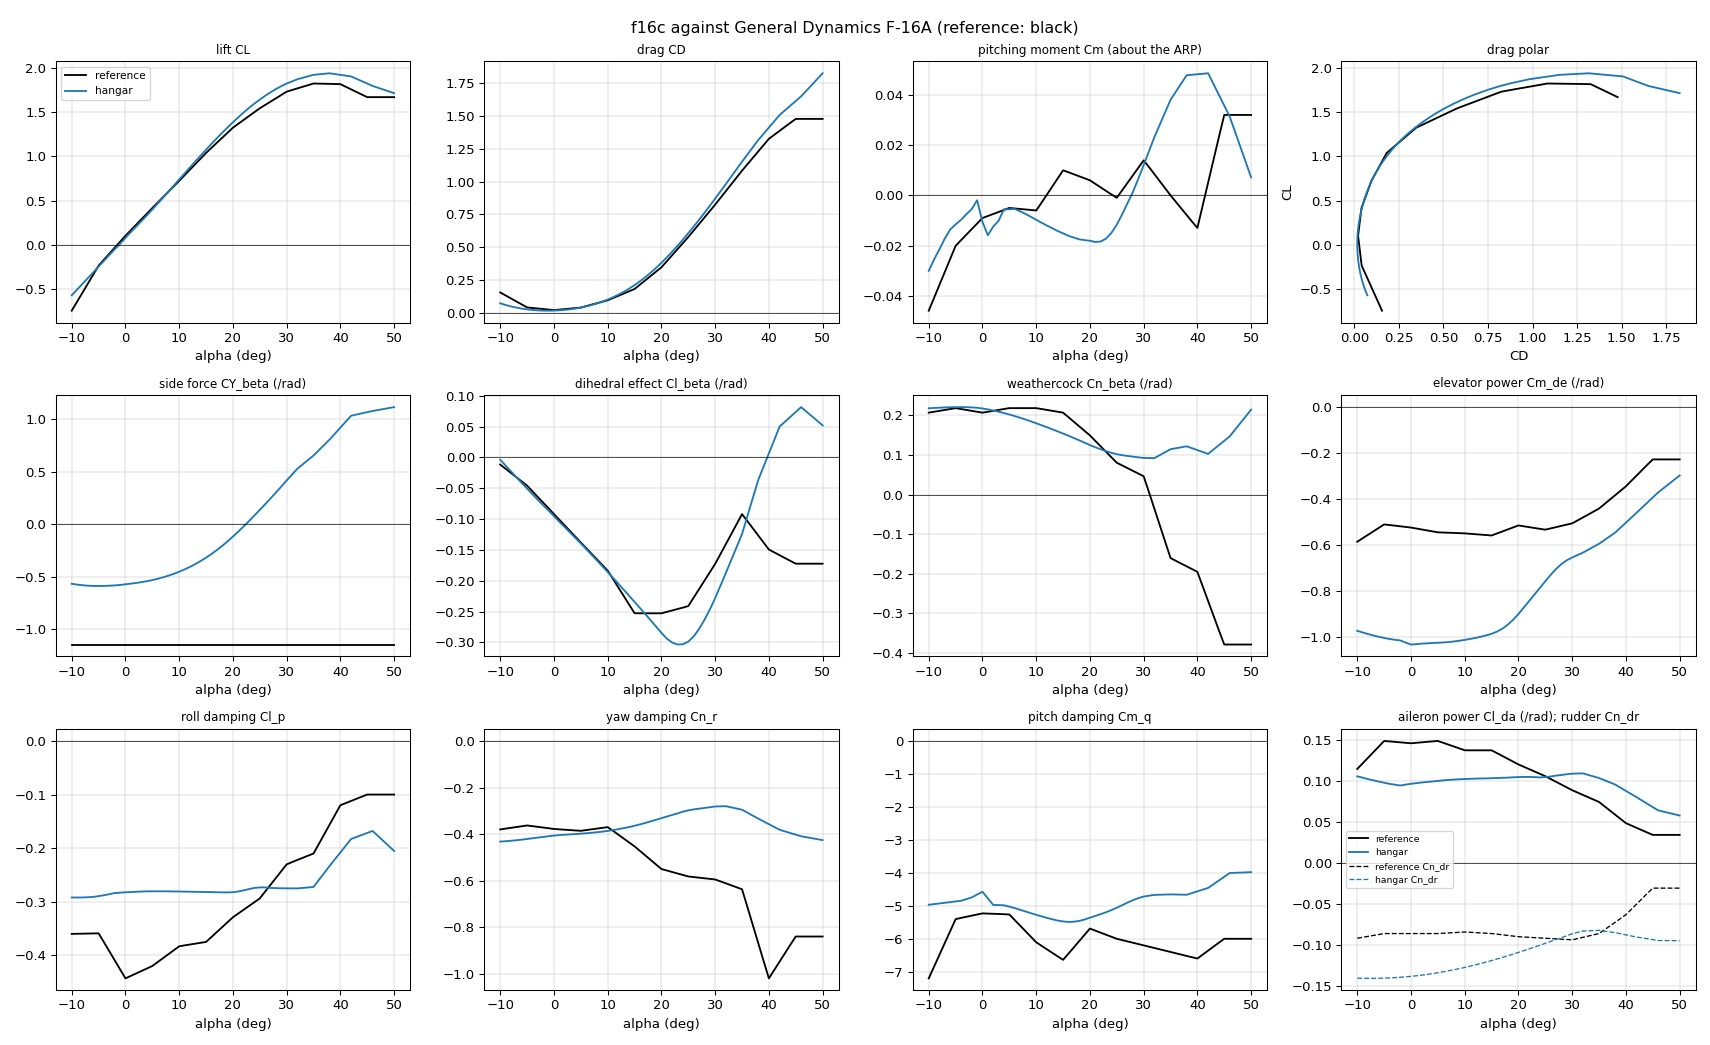
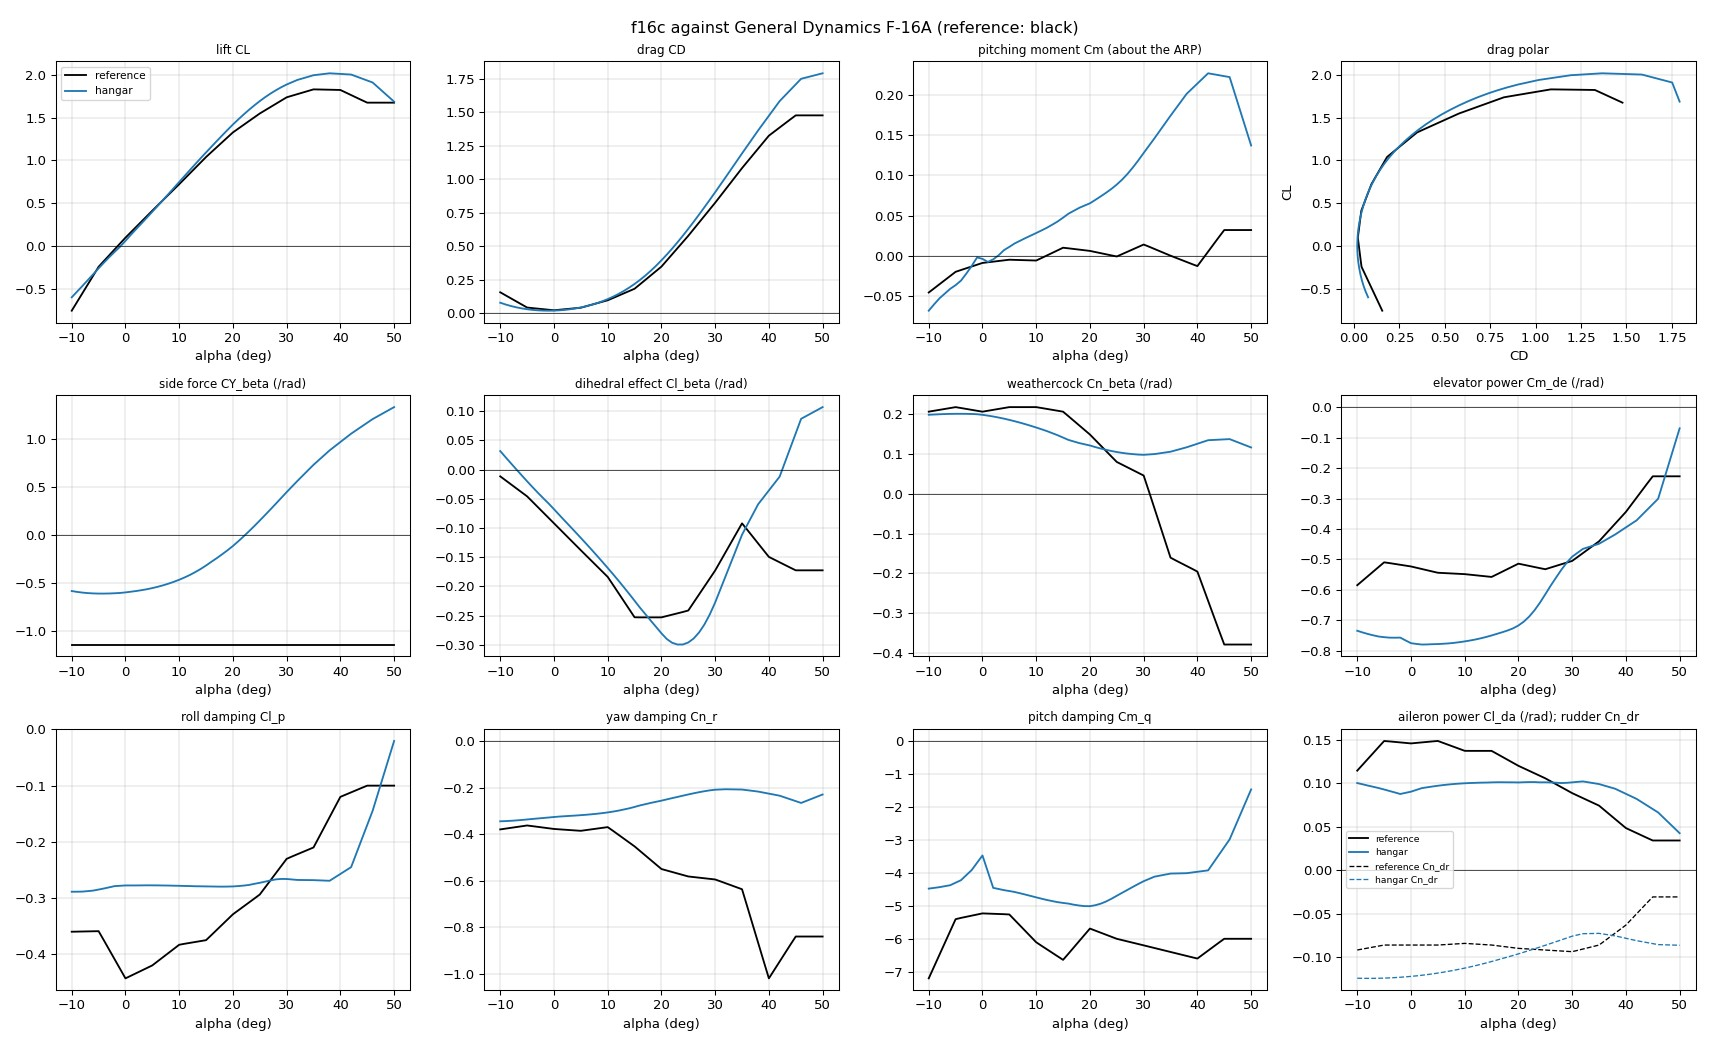
docs: the F-16C against NASA TP-1538 as the model gives it now
The Validation section's numbers predated the F-16C's reshape to its
three-views (c914b1a). Rerun at d9832dd (fsim hangar f16c, every stage):

- Lift 7.2 % and drag 7.5 % mean error to 15 deg (8.6 % and 10.9 % from
  15 to 40 deg). Cm is 0.037 above NASA's at 15 deg and 0.23 at 40 deg.
  Neutral point 30.7 % MAC; NASA's is 33.5 % from the same -2..6 deg
  slope. The old "NASA: 34.5 %" was a 0-10 deg fit, which gives the
  design 29.7 %.
- The tail's power is 1.4 times NASA's below 20 deg (the doc said 1.8).
- The flight results are unchanged: Mach 2.04, 874 kt, 62,600 ft/min,
  61,800 ft, 12.5 deg/s, 25.0 deg, 264 deg/s.

reference.compare() needs no moment transfer. The F-16C's aero_point
has been 8.030 m since the design was created (only designs without a
reference put theirs at the CG). That is 0.352 MAC, 7 mm behind NASA
TP-1538's 0.35 MAC moment reference, where JSBSim's f16 tables take
their Cm (Stevens & Lewis's, XCGR 0.35). The pitch-up to +0.22 near
42 deg is the design's own. Today's methods run on the shape before the
reshape (94668f6) give Cm within 0.019 to 15 deg and 0.074 to 40 deg,
lift 5.4 %, and the neutral point at 34.35 %. Putting back parts of that
shape one at a time moves the neutral point aft: the strakes by 1.1 %
MAC, the fuselage and intake by 0.85 %, the stabilator position by
0.6 %. docs/hangar.md now calls this a regression.

The aircraft-design skill now says that a design with a reference keeps
[…]

diff --git a/docs/hangar.md b/docs/hangar.md
@@ -406,16 +406,34 @@ TP-1538's wind-tunnel data (Nguyen et al., 1979), a reference measured from
 
 ![hangar's F-16C against NASA TP-1538](images/hangar-f16c-nasa.jpg)
 
-Lift, drag and pitching moment agree to 40° angle of attack. The mean lift
-error is 5 % and drag 7 %; Cm is within 0.025 to 15° and 0.06 to 40°. The
-neutral point is at 34.4 % of the MAC (NASA: 34.5 %). The dihedral effect,
-the weathercock stability to 25°, and the damping in pitch and yaw at low α
-also agree.
+Lift and drag follow NASA's to 40° angle of attack. The mean error to 15°
+is 7.2 % in lift and 7.5 % in drag, and from 15° to 40° it is 8.6 % and
+10.9 %. The dihedral effect, the weathercock stability to 25°, and the
+damping in pitch and yaw at low α also agree.
 
-hangar's F-16C differs in these:
+The pitching moment agrees only at low α. Both moments are taken about
+NASA's moment reference, 35 % of the MAC, which is also the design's
+reference point. NASA's Cm stays within 0.015 of zero from 0° to 40°.
+hangar's rises with α: it is 0.037 above NASA's at 15° and 0.23 above at
+40°. The neutral point is at 30.7 % of the MAC, and NASA's at 33.5 % (both
+from the slope between −2° and 6°).
+
+This is a regression. It came when the F-16C was reshaped to its
+three-views. Today's methods, run on the earlier shape, give Cm within 0.02
+of NASA's to 15° and 0.07 to 40°, a mean lift error of 5.4 %, and the
+neutral point at 34.4 %. The three-views gave the F-16C ogee strakes that
+start 1.2 m further forward, a wider forebody, and a stabilator 0.6 m
+further forward. Each of these adds nose-up moment. Put back one at a time,
+the earlier strakes move the neutral point 1.1 % of the MAC aft, the
+earlier fuselage and intake 0.85 %, and the earlier stabilator 0.6 %. The
+new shape is the more faithful one, so the error is in the model, not in
+the comparison. The strakes' vortex lift was calibrated on NASA's data
+while the F-16C still had its earlier, shorter strakes.
+
+hangar's F-16C also differs in these:
 
 - At high angle of attack it keeps more directional stability than NASA's.
-- Its all-moving tail is about 1.8 times as powerful.
+- Its all-moving tail is about 1.4 times as powerful below 20°.
 - Its side force in sideslip is about half of NASA's.
 
 JSBSim's `f16` applies Stevens & Lewis's aileron and rudder tables per

diff --git a/.claude/skills/aircraft-design/SKILL.md b/.claude/skills/aircraft-design/SKILL.md
@@ -173,6 +173,9 @@ move on while a check fails or a picture looks wrong.
   only when the JSBSim model comes from wind-tunnel data: of those shipped,
   only `f16` does (the f15's and f22's headers say performance data). Check
   its control tables' units first: see the f16c's `reference_control_scale`.
+  The comparison takes the reference's moments about the design's
+  `aero_point`, so keep that at the reference's moment point (the f16c's:
+  NASA's 0.35 MAC), not at the CG.
 - **Read after aero:**
   - `reference.png`, if there is a reference.
   - `mach.png`: K_L should peak near Mach 0.9-1.0. The neutral point
